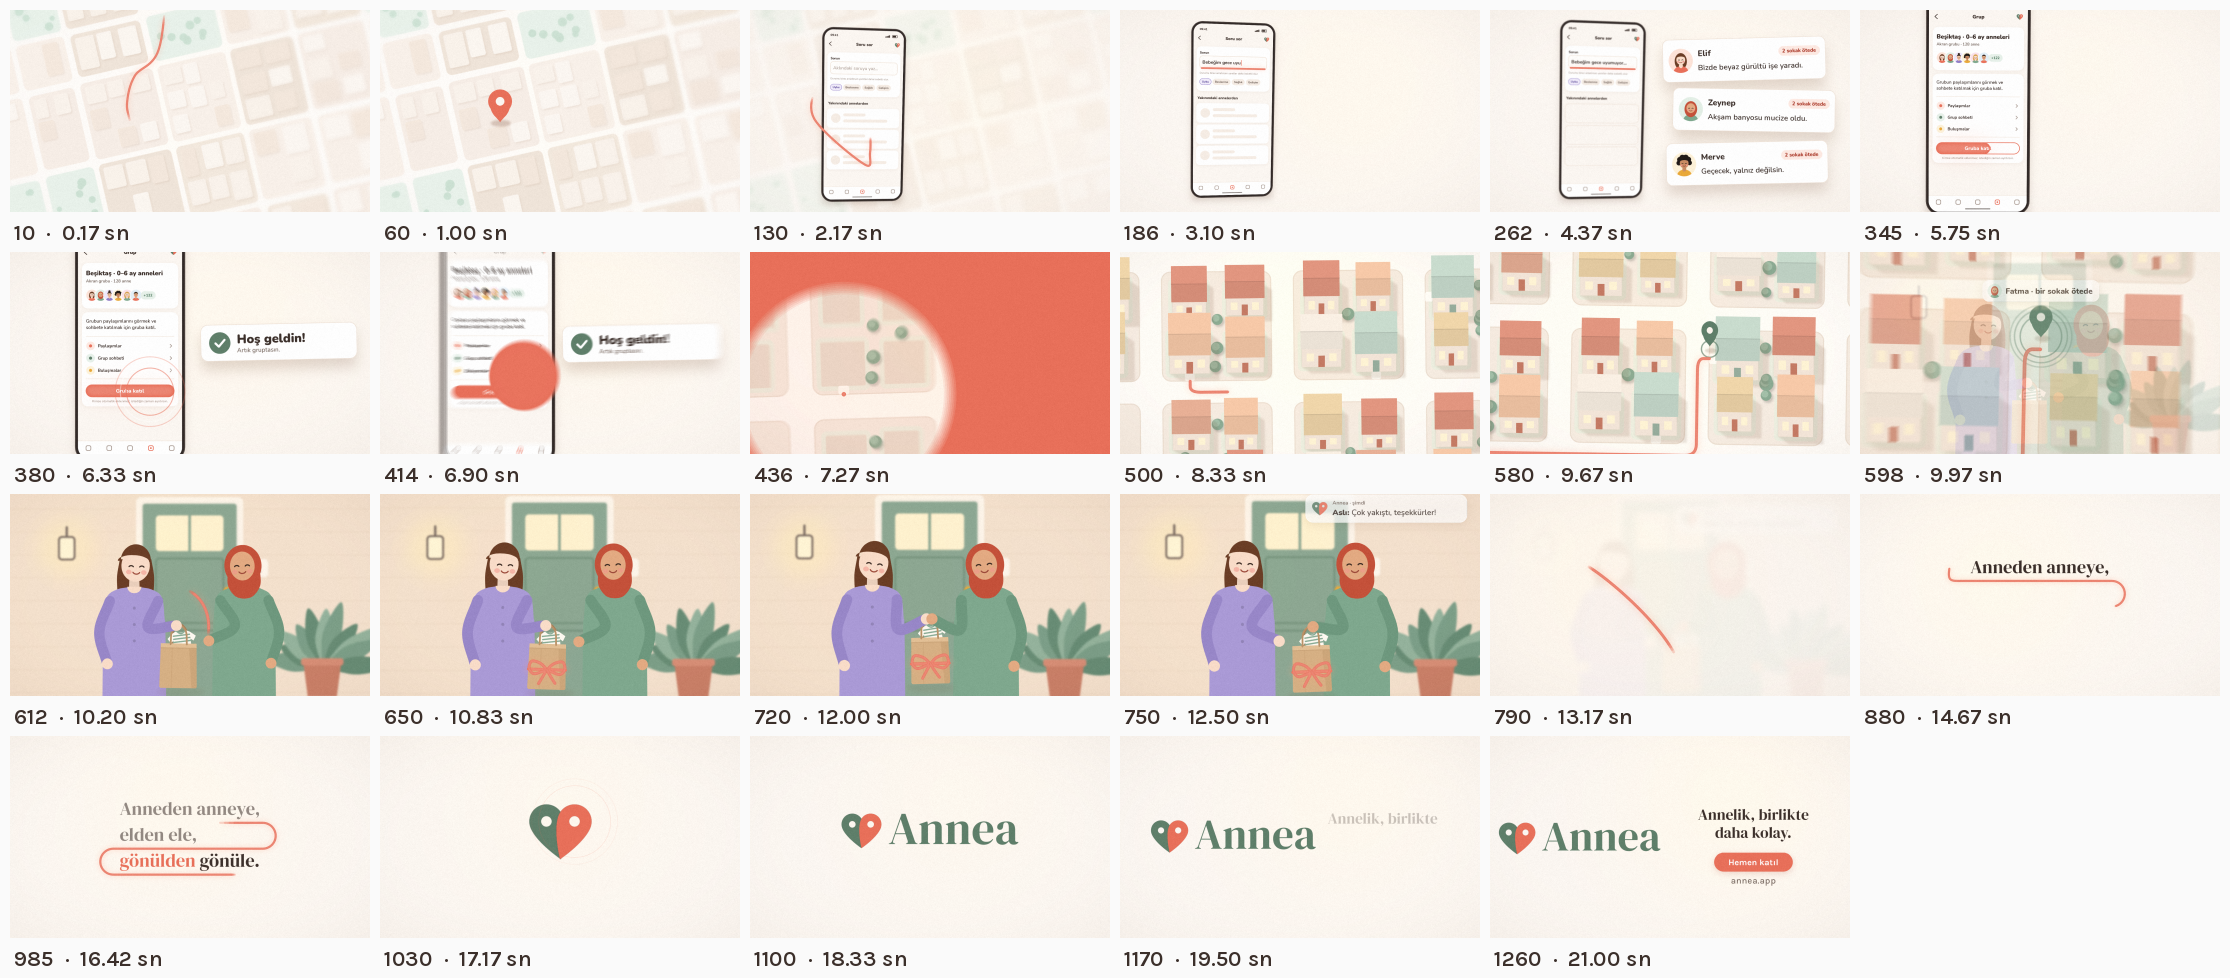
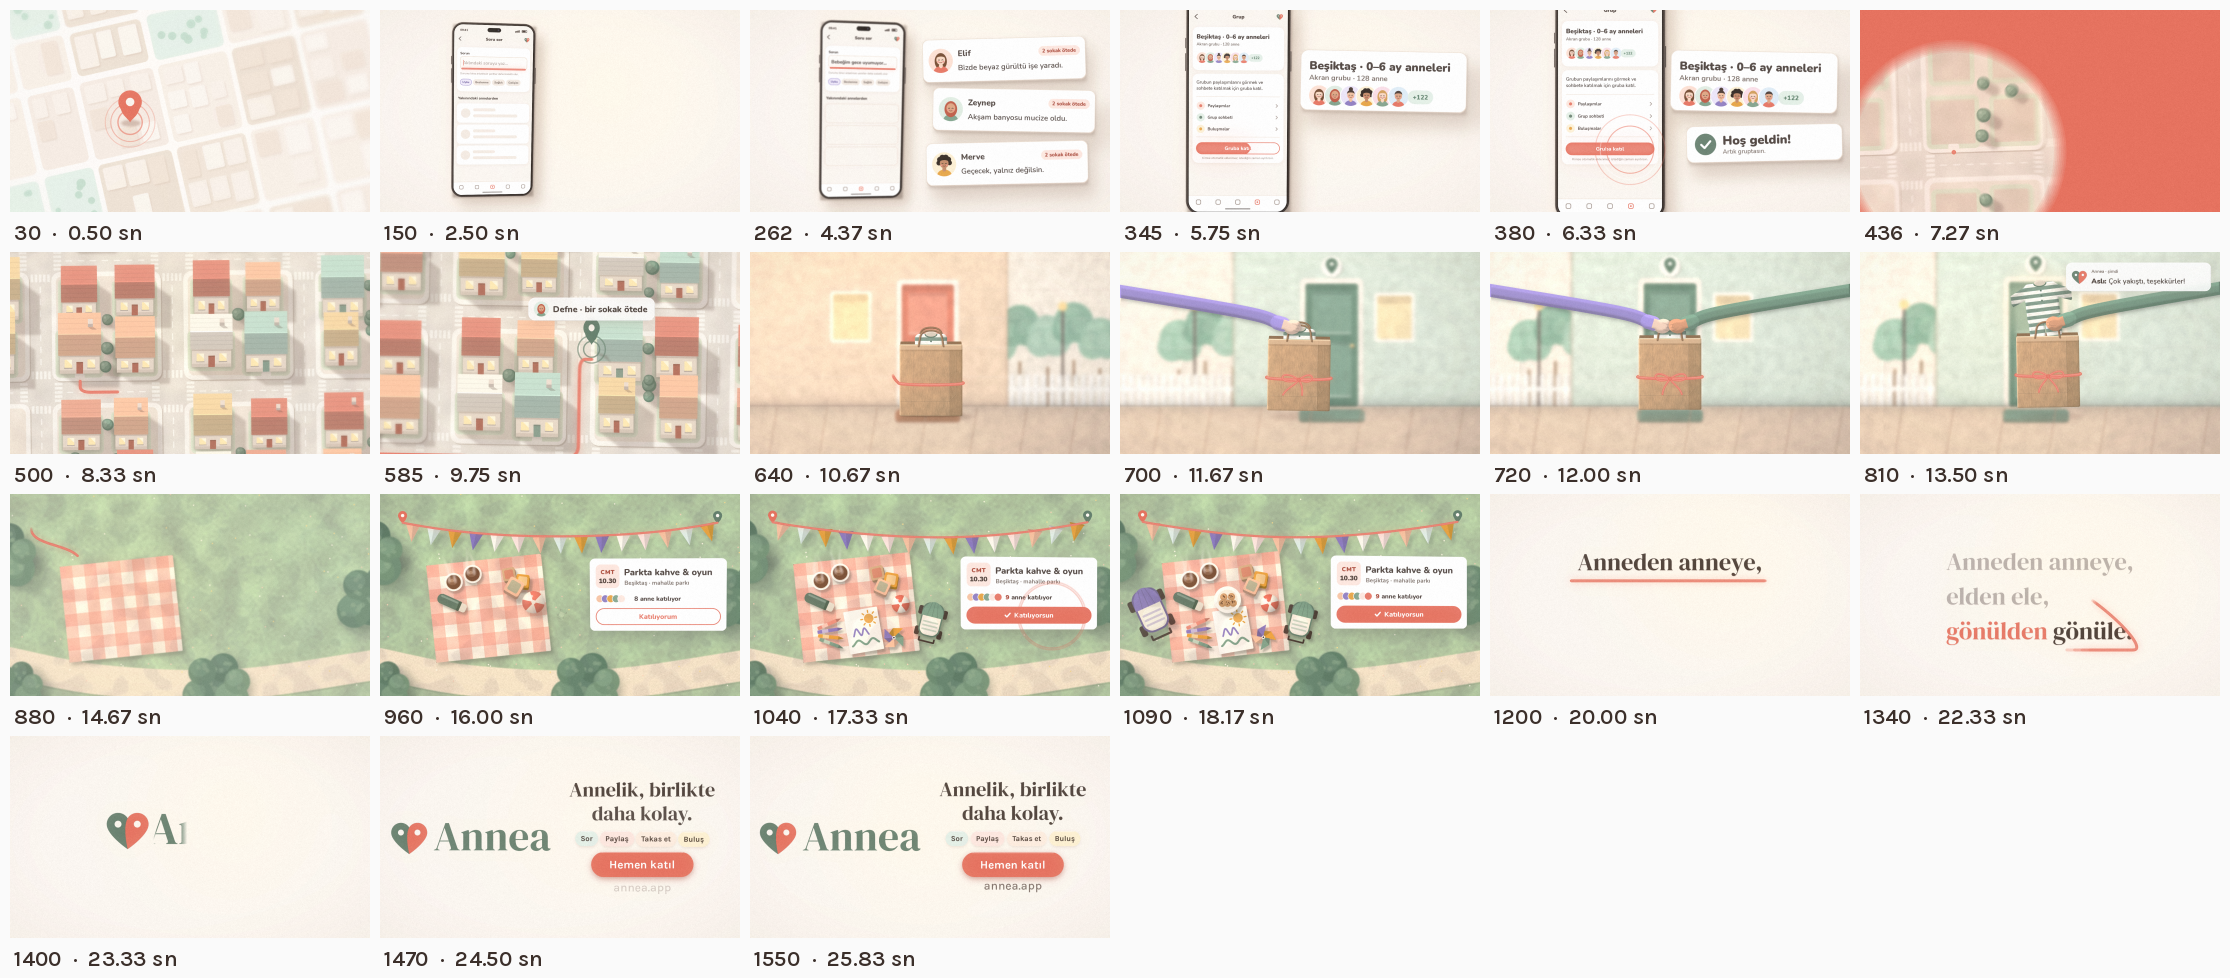
25,9 sn sürüm: etkinlik sahnesi, uzatılmış takas sahnesi, gerçekçilik turu, kontak föyleri
Claude-Session: https://claude.ai/code/session_01VCEZPaAZG4v5TBs6tzf6pB

diff --git a/film/sahne_etkinlik.py b/film/sahne_etkinlik.py
@@ -371,7 +371,7 @@ def _cizgi_yolu(t, K, Y):
         r0 = _yol_oran(P, i0)
         bas = O.gir_cik(O.ara(t, T0, T0 + 0.80))
         kuy = r0 * O.gir_cik(O.ara(t, T0 + 0.25, T0 + 0.95))
-        return O.yol_parca(P, kuy, max(bas, 0.004))
+        return O.yol_parca(P, kuy, bas)
     P = _cikis_yolu(t, K, Y)
     x = O.ara(t, Z.ETK_GECIS, BITIS - 0.02)
     ip_oran = _yol_oran(P, 63)
@@ -433,7 +433,7 @@ def _kart_taban():
     while O.yazi_olcu(bas, "nunito", boyut, 800)[0] > KW - 228 - 36 and boyut > 56:
         boyut -= 1
     O.yaz(k, bas, 228, 112, "nunito", boyut, O.METIN, 800)
-    O.yaz(k, "Beşiktaş · Abbasağa Parkı", 230, 176, "nunito", 39, O.METIN2, 700)
+    O.yaz(k, "Beşiktaş · mahalle parkı", 230, 176, "nunito", 39, O.METIN2, 700)
     for i, renk in enumerate((O.SEFTALI, O.LAVANTA, O.BAL, (127, 168, 142), O.MERCAN_ACIK)):
         _el(k, 66 + i * 36, 268, 27, 27, O.BEYAZ)
         _el(k, 66 + i * 36, 268, 23, 23, renk)
